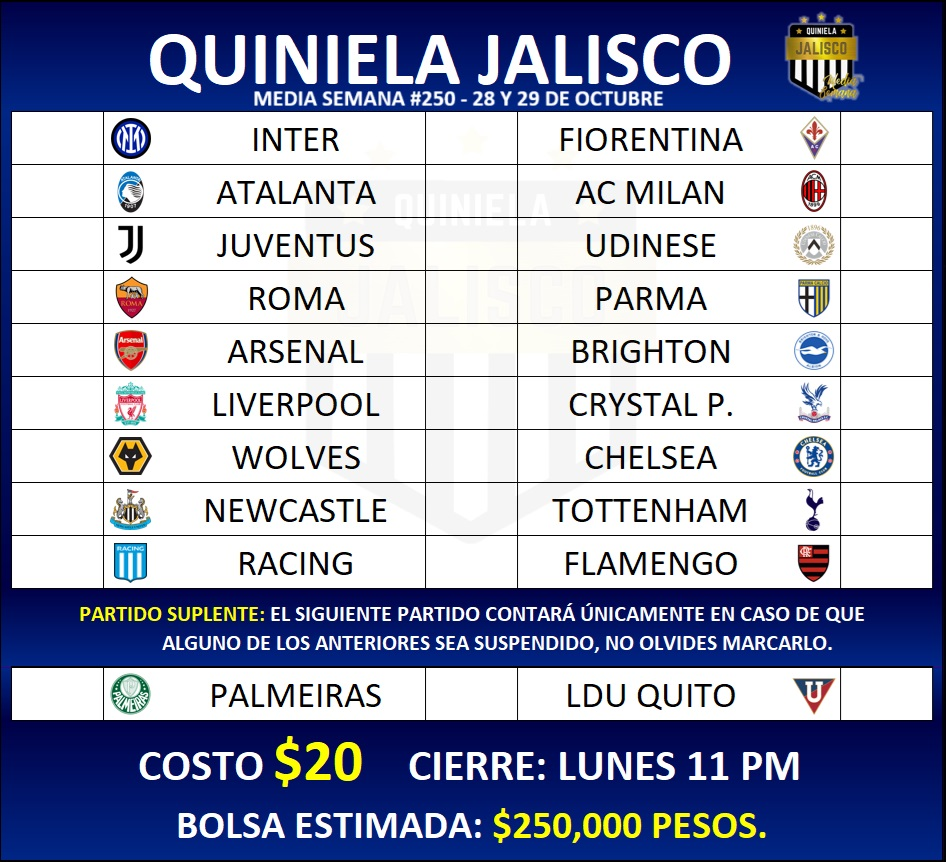
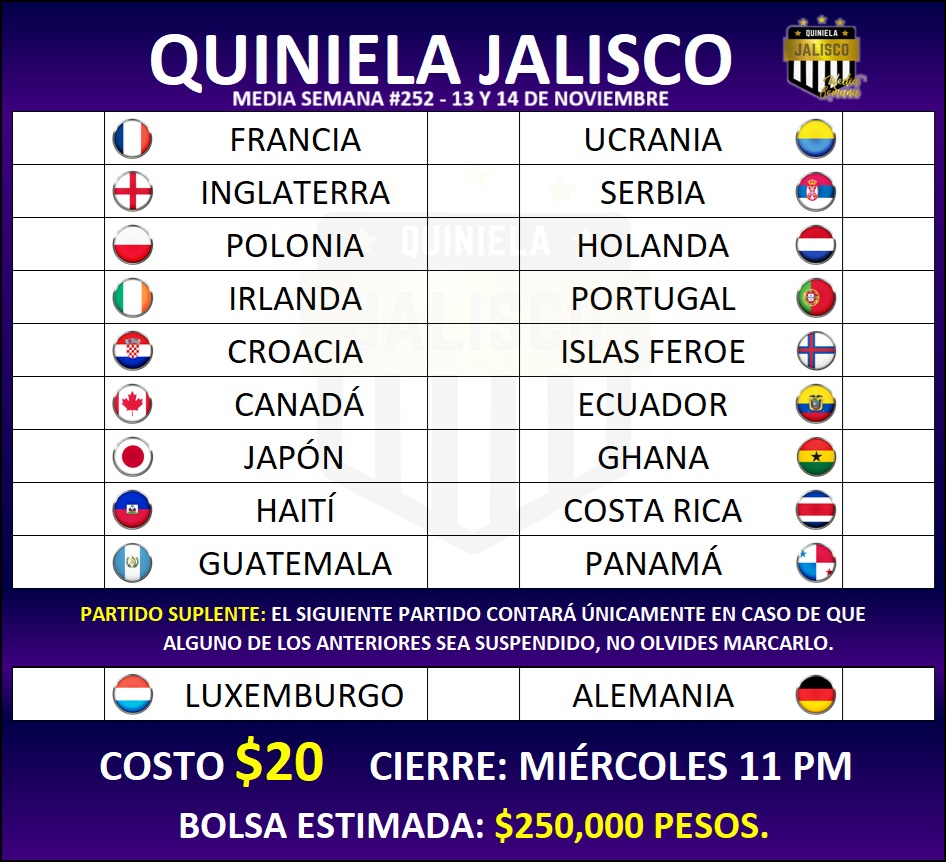
Media Semana #252

diff --git a/MediaSemana/stylesmSusp.css b/MediaSemana/stylesmSusp.css
@@ -16,7 +16,7 @@ body{
 
 .quiniela{
     margin: auto;
-    background-image: url("IMG_9360.png");
+    background-image: url("quinielamSusp.jpg");
     background-size: 100%;
     background-repeat: no-repeat;
     max-width: 400px;
@@ -94,8 +94,8 @@ body{
     margin-top: 9%;
     border: solid 1px black;
     border-radius: 0 0 14px 14px;
-    background: -webkit-linear-gradient(0.49turn, rgb(0,70,24) -7%, rgb(0 6 82) 80%);
-    background: linear-gradient(0.49turn, rgb(0,70,24) -7%, rgb(0 6 82) 80%);
+    background: -webkit-linear-gradient(0.49turn, rgb(40,0,108) -7%, rgb(0 6 82) 80%);
+    background: linear-gradient(0.49turn, rgb(40,0,108) -7%, rgb(0 6 82) 80%);
 }
 
 .text-lg{
@@ -296,7 +296,7 @@ h6{
 }
 
 #cantidad:before{
-    content:' +$300,000 pesos';
+    content:' $250,000 pesos';
     color: yellow;
     white-space:pre;
 }
